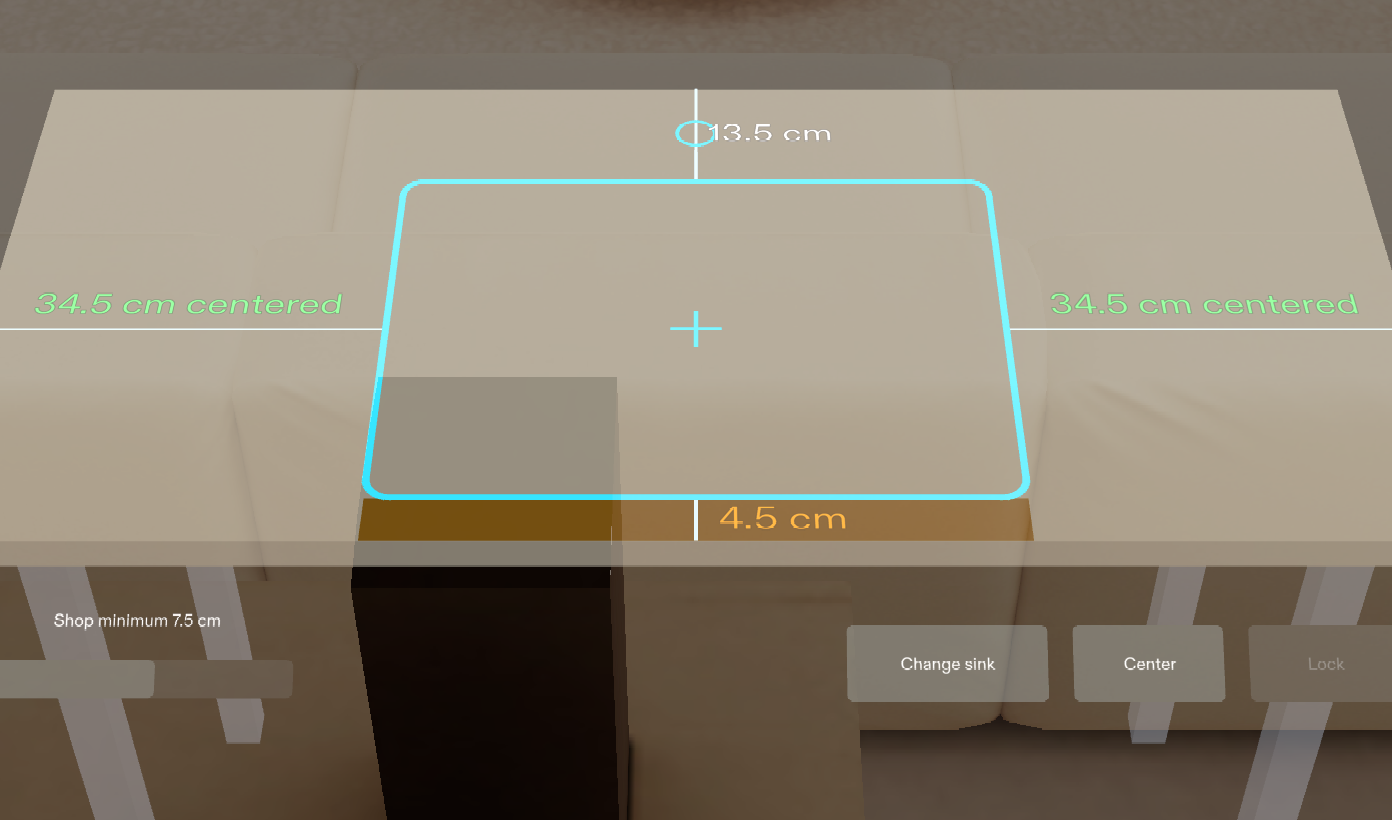
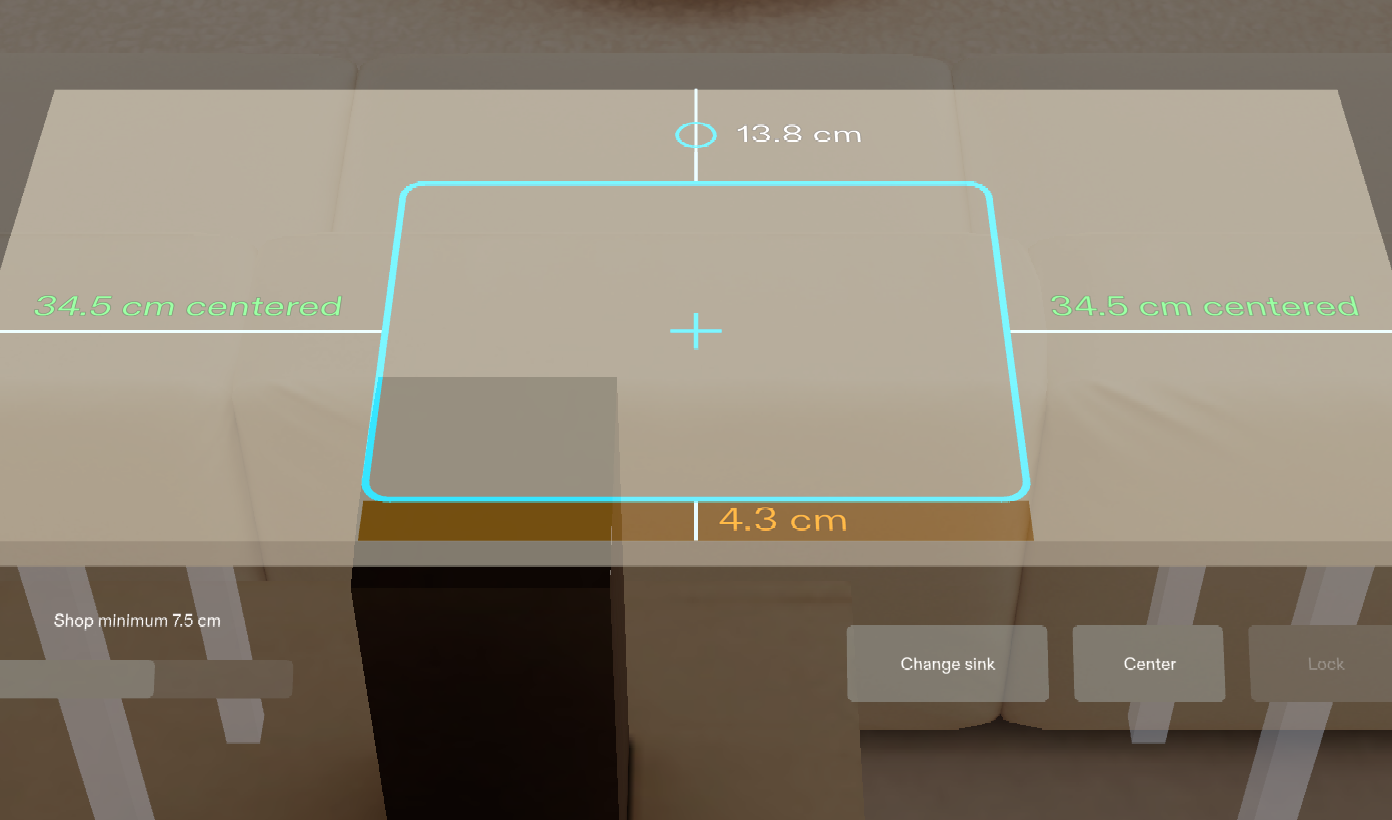
fix: back rail label clears the faucet hole

diff --git a/Assets/Scripts/MeasureTwiceStoneUI.ts b/Assets/Scripts/MeasureTwiceStoneUI.ts
@@ -8,7 +8,7 @@
 import Event, {PublicApi} from "SpectaclesInteractionKit.lspkg/Utils/Event"
 import {Interactable} from "SpectaclesInteractionKit.lspkg/Components/Interaction/Interactable/Interactable"
 import {InteractorEvent} from "SpectaclesInteractionKit.lspkg/Core/Interactor/InteractorEvent"
-import {fmt, outlinePoints, Point2, Rails, Sink, SLAB_D, SLAB_W, faucetOffset, FAUCET_DIAMETER} from "./MeasureTwiceLayout"
+import {fmt, outlinePoints, Point2, Rails, Sink, SLAB_D, SLAB_W, faucetOffset, FAUCET_DIAMETER, BACK_LABEL_SHIFT} from "./MeasureTwiceLayout"
 import {FlatMesh, meshObject, tintedMaterial} from "./MeasureTwiceMesh"
 
 export interface StoneView {
@@ -185,7 +185,7 @@ export class MeasureTwiceStoneUI extends BaseScriptComponent {
     const size = v.tracing ? this.labelSize / 2 : this.labelSize
     const off = size / 22 // keeps labels clear of the dimension line at any size
     this.setLabel("Front", v.x + off, (front + D) / 2, `${fmt(v.rails.front)} cm`, v.amber.front, false, size)
-    this.setLabel("Back", v.x + off, (back - D) / 2, `${fmt(v.rails.back)} cm`, v.amber.back, false, size)
+    this.setLabel("Back", v.x + off + BACK_LABEL_SHIFT, (back - D) / 2, `${fmt(v.rails.back)} cm`, v.amber.back, false, size)
     const lr = (n: number) => (v.centered ? `${fmt(n)} cm centered` : `${fmt(n)} cm`)
     this.setLabel("Left", (left - E) / 2, v.z - size / 50, lr(v.rails.left), v.amber.left, v.centered, size)
     this.setLabel("Right", (right + E) / 2, v.z - size / 50, lr(v.rails.right), v.amber.right, v.centered, size)

diff --git a/Assets/Scripts/MeasureTwiceLayout.ts b/Assets/Scripts/MeasureTwiceLayout.ts
@@ -26,6 +26,8 @@ export const SLAB_D = 56
 export const SLAB_T = 3
 export const FAUCET_DIAMETER = 3.5
 export const FAUCET_GAP = 5 // gap between cutout back edge and faucet hole edge
+/** Extra x offset for the back rail label: the faucet hole sits on the back dimension line, mid-rail. */
+export const BACK_LABEL_SHIFT = FAUCET_DIAMETER / 2 + 1
 
 export interface Rails {
   front: number

diff --git a/docs/build-report.md b/docs/build-report.md
@@ -6,13 +6,13 @@ Built from `devpost/design-brief.md` with Snap's CLAD agents (specs-experience-b
 
 - Stand-in: a 122 x 56 x 3 cm light warm-white slab on a 90 cm stand, 80 cm in front of the user. Its top is 70 cm below eye level. The only thing shown at start is "Slab is here".
 - Three sink cards appear along the back edge, tilted toward the user. Each shows the name, an outline drawn at a shared scale, and the size in cm and inches.
-- The cutout is laid flat on the slab at real size: a cyan 0.6 cm line, a center cross, and a 3.5 cm faucet hole 5 cm behind it. Four rail numbers sit on the stone (cm, one decimal), each with a dimension line.
+- The cutout is laid flat on the slab at real size: a cyan 0.6 cm line, a center cross, and a 3.5 cm faucet hole 5 cm behind it. Four rail numbers sit on the stone (cm, one decimal), each with a dimension line. The back number is shifted right so it clears the faucet hole, also at half size.
 - Drag: the hand ray is projected onto the slab-top plane and the result is clamped to the slab. The outline never leaves the slab.
 - When a rail is below the shop minimum, its number turns amber and the rail is filled amber on the stone. While the front or back rail is amber, "Lock" is dimmed and its interactable is off.
 - "Center" makes left and right equal. Both turn green and read "centered" when they match within 0.2 cm.
 - The shop minimum slider (5 to 10 cm, starts at 7.5) recolors the rails without moving the outline.
 - "Lock" freezes the drag and shows "Unlock" in the same place. A pulsing 3 cm marker steps through the 4 corners and then the faucet hole, one step per "Marked". For the oval, the corners are the front, right, back and left points. While tracing, the rail numbers shrink to half size.
-- After the 5th mark, the summary line appears inside the outline, built from the values at lock time ("Front 10.8 cm · Back 12.2 cm · Centered · 5 marks"). A soft chime plays and "New layout" resets.
+- After the 5th mark, the summary line appears inside the outline, built from the values at lock time ("Front 10.9 cm · Back 12.1 cm · Centered · 5 marks"). A soft chime plays and "New layout" resets.
 - When the next corner is out of view, an arrow on the stone points toward it and a tick plays from the corner. Both sounds are WAVs generated locally; no paid API was used.
 
 ## LEAF: 7/7 done criteria pass
@@ -34,7 +34,6 @@ To check that the tests can fail, dc5 was run once with a wrong assertion. It fa
 ## What is missing or unproven
 
 - There is no IK reachability scenario, so the tests don't prove that a real arm reaches the stand-edge controls.
-- The back rail label overlaps the faucet-hole circle (prints 04 and 06).
 - The rail numbers have a dark outline. It helps only against the virtual slab in the preview; on the additive display it renders as nothing.
 - Feel unproven: registration and drift on a real slab, line and number legibility on polished stone under shop lights, and voice for "marked" (it is a button here).
 - The preview panel is docked in a narrow column, so the prints below are crops of the Interactive Preview panel (Sunlit Room, SPECS 27), taken from a camera behind and above the user so the whole slab fits.
@@ -44,6 +43,6 @@ To check that the tests can fail, dc5 was run once with a wrong assertion. It fa
 - `docs/prints/01-start-slab-is-here.png`: start, slab stand-in with "Slab is here"
 - `docs/prints/02-sink-cards.png`: the three sink cards on the back edge
 - `docs/prints/03-template-four-rails.png`: large rectangle at real size with the 4 distances, centered in green
-- `docs/prints/04-amber-front-rail.png`: front rail 4.5 cm, below the 7.5 cm minimum, filled amber, Lock dimmed
+- `docs/prints/04-amber-front-rail.png`: front rail 4.3 cm, below the 7.5 cm minimum, filled amber, Lock dimmed
 - `docs/prints/05-locked-marker.png`: locked, marker on the faucet hole, half-size numbers, Marked and Unlock
 - `docs/prints/06-summary.png`: summary line on the stone and New layout
